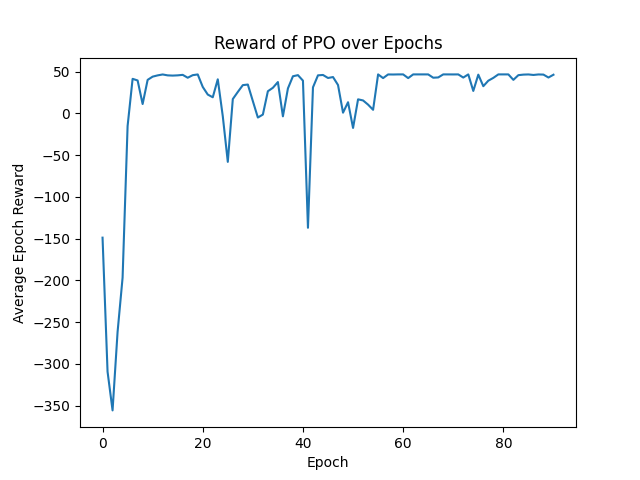
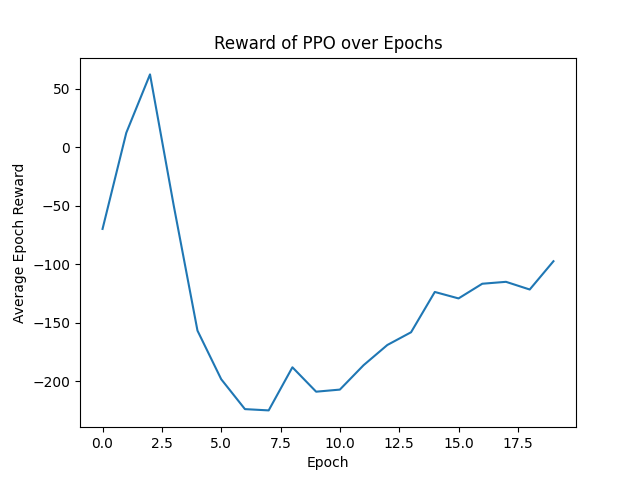
Taylor's Version

diff --git a/src/ppo.py b/src/ppo.py
@@ -6,8 +6,9 @@ Inspired by tutorial given by Eric Yang Yu: https://medium.com/analytics-vidhya/
 
 import matplotlib.pyplot as plt
 
-from src.evalPPO import eval_policy
-from src.rewardmodelsimulator import RewardModelSimulator
+from evalPPO import eval_policy
+from rewardmodelsimulator import RewardModelSimulator
+from RLHFenvironment import RLHFEnv
 import time
 import numpy as np
 import torch
@@ -36,8 +37,9 @@ class ACNN(nn.Module):
         super(ACNN, self).__init__()
         self.device = torch.device("cuda" if torch.cuda.is_available() else "cpu")
 
-        self.layer1 = nn.Linear(in_dim, 128)
-        self.layer2 = nn.Linear(128, out_dim)
+        self.layer1 = nn.Linear(in_dim, 32)
+        self.layer2 = nn.Linear(32, 16)
+        self.layer3 = nn.Linear(16, out_dim)
 
     def forward(self, obs):
 
@@ -56,27 +58,29 @@ class ACNN(nn.Module):
         """if obs.ndim == 1:
             obs = torch.reshape(obs, (obs.shape[0], 1))"""
         logits = nn.functional.relu(self.layer1(obs))
-        output = self.layer2(logits)
+        logits = nn.functional.relu(self.layer2(logits))
+        output = self.layer3(logits)
 
         return output
 
 
 class PPO:
 
-    def __init__(self, env, alpha=0.1, gamma=0.99):
+    def __init__(self, env=RewardModelSimulator(), test_env=RLHFEnv(), alpha=1e-4, alpha_c=0.1, gamma=0.925):
         self.device = torch.device("cuda" if torch.cuda.is_available() else "cpu")
         self.env = env
+        self.test_env = test_env
         self.obs_dim = 2  # grid world is 10x10
         self.action_dim = 4  # there are four discrete actions that can be taken (up, right, down, left)
         self.actor = ACNN(self.obs_dim, self.action_dim).to(self.device)
         self.critic = ACNN(self.obs_dim, 1).to(self.device)
 
-        self._init_hp(alpha, gamma)
+        self._init_hp(alpha, alpha_c, gamma)
         self.cov_var = torch.full(size=(self.action_dim,), fill_value=0.5).to(self.device)
         self.cov_mat = torch.diag(self.cov_var).to(self.device)
 
         self.a_optim = Adam(self.actor.parameters(), lr=self.alpha)
-        self.c_optim = Adam(self.critic.parameters(), lr=self.alpha)
+        self.c_optim = Adam(self.critic.parameters(), lr=self.alpha_c)
         self.softmax = nn.Softmax(dim=0)
 
         self.logger = {
@@ -85,15 +89,17 @@ class PPO:
             'i_so_far': 0,  # iterations so far
             'batch_lens': [],  # episodic lengths in batch
             'batch_rews': [],  # episodic returns in batch
+            'batch_test_rews': [],
             'actor_losses': [],  # losses of actor network in current iteration
             'overall_loss': [],
             'overall_reward': [],
+            'overall_test_rews': [],
             'batch_accuracy': []
         }
 
         ACTIONS = [(0, 1), (0, -1), (1, 0), (-1, 0)]
         data = []
-        with open('dataset/minigrid_RLHF_dataset.csv', 'r') as f:
+        with open('../dataset/minigrid_RLHF_dataset.csv', 'r') as f:
             next(f)  # Skip header
             state = None
             for line1, line2 in zip(f, f):  # Read two lines at a time
@@ -115,12 +121,14 @@ class PPO:
         # Convert data to PyTorch tensors
         self.test = np.array(data)
 
+
     def learn(self, n_episodes):
         t = 0  # t = current time step
         i_so_far = 0
         while t < n_episodes:
             batch_s, batch_a, batch_log_probs, batch_rtgs, batch_lens = self.rollout()
             t += np.sum(batch_lens)
+
             v, _ = self.evaluate(batch_s, batch_a)
 
             self.logger['batch_accuracy'].append(self.get_accuracy())
@@ -133,7 +141,6 @@ class PPO:
             self.logger['i_so_far'] = i_so_far
 
             adv_k = batch_rtgs - v.detach()  # getting the advantages for the time steps
-
             adv_k = (adv_k - adv_k.mean()) / (adv_k.std() + 1e-10)  # normalizing the advantages
 
             for i in range(self.n_updates_per_iteration):
@@ -142,19 +149,20 @@ class PPO:
                 ratios = torch.exp(curr_log_probs - batch_log_probs)
 
                 s1 = ratios * adv_k
-                s2 = torch.clamp(ratios, 1 - self.clip, 1 + self.clip)
+                s2 = torch.clamp(ratios, 1 - self.clip, 1 + self.clip) * adv_k
 
                 actor_loss = (-torch.min(s1, s2)).mean()
                 self.a_optim.zero_grad()
                 actor_loss.backward()
                 self.a_optim.step()
 
-                critic_loss = nn.MSELoss()(v, batch_log_probs)
+                critic_loss = nn.MSELoss()(v, batch_rtgs)
                 self.c_optim.zero_grad()
                 critic_loss.backward()
                 self.c_optim.step()
 
                 self.logger['actor_losses'].append(actor_loss.detach())
+                #self.logger['critic_losses'].append(critic_loss.detach())
 
             self._log_summary()
 
@@ -163,13 +171,14 @@ class PPO:
                 torch.save(self.actor.state_dict(), './ppo_actor.pth')
                 torch.save(self.critic.state_dict(), './ppo_critic.pth')
 
-    def _init_hp(self, alpha, gamma):
-        self.steps_per_batch = 5000
+    def _init_hp(self, alpha, alpha_c, gamma):
+        self.steps_per_batch = 1000
         self.max_episode = 200  # maximum timesteps per episode: prevents episode from runnning forever
         self.gamma = gamma
         self.n_updates_per_iteration = 10
         self.clip = 0.2
         self.alpha = alpha
+        self.alpha_c = alpha_c
         # Miscellaneous parameters
         self.render = True  # If we should render during rollout
         self.render_every_i = 10  # Only render every n iterations
@@ -195,7 +204,7 @@ class PPO:
                 batch_t += 1
                 batch_s.append(input)
 
-                a, log_prob = self.get_action(input)
+                a, log_prob, a_probs = self.get_action(input)
                 state, reward, done, _ = self.env.step(a)
 
                 episode_r.append(reward)
@@ -211,6 +220,7 @@ class PPO:
         batch_rtgs = self.rtgs_comp(batch_r)
 
         # Log the episodic returns and episodic lengths in this batch.
+        self.logger['batch_test_rews'] = self.get_test_rewards()
         self.logger['batch_rews'] = batch_r
         self.logger['batch_lens'] = batch_lens
 
@@ -224,12 +234,14 @@ class PPO:
         dist = MultivariateNormal(mean, self.cov_mat)  # get multivariate distribution to help with exploring
         a = dist.sample()
         log_prob = dist.log_prob(a)
-        a = np.random.choice(4, p=self.softmax(a).detach().numpy())
+        action_probs = self.softmax(a).detach().numpy()
+        a = np.random.choice(4, p=action_probs)
+        #a = np.argmax(a)
         """if a.ndim == 1:
             a = np.random.choice(4, p=self.softmax(a).detach().numpy())
         else:
             a = np.random.choice(4, p=self.softmax(a).detach().numpy())"""
-        return np.array(a), log_prob.detach()
+        return np.array(a), log_prob.detach(), action_probs
 
     def rtgs_comp(self, batch_r):
         batch_rtgs = []
@@ -275,6 +287,7 @@ class PPO:
         i_so_far = self.logger['i_so_far']
         avg_ep_lens = np.mean(self.logger['batch_lens'])
         avg_ep_rews = np.mean([np.sum(ep_rews) for ep_rews in self.logger['batch_rews']])
+        avg_test_rews = np.mean([np.sum(ep_rews) for ep_rews in self.logger['batch_test_rews']])
         avg_actor_loss = np.mean([losses.float().mean() for losses in self.logger['actor_losses']])
 
         self.logger['overall_reward'].append(avg_ep_rews)
@@ -290,6 +303,7 @@ class PPO:
         print(f"-------------------- Iteration #{i_so_far} --------------------", flush=True)
         print(f"Average Episodic Length: {avg_ep_lens}", flush=True)
         print(f"Average Episodic Return: {avg_ep_rews}", flush=True)
+        print(f"Average Test Episodic Return: {avg_test_rews}", flush=True)
         print(f"Average Loss: {avg_actor_loss}", flush=True)
         print(f"Average Accuracy: {self.logger['batch_accuracy'][-1]}")
         print(f"Timesteps So Far: {t_so_far}", flush=True)
@@ -303,29 +317,78 @@ class PPO:
         self.logger['actor_losses'] = []
 
     def get_accuracy(self):
+        self.actor.eval()
         correct = 0
         counter = 0
         np.random.shuffle(self.test)
-        for data in self.test[:100000]:
+
+        # store action values for all states
+        action_probs = [[0 for y in range(30) ] for x in range(30)]
+        for x in range(30):
+            for y in range(30):
+                a, b, c = self.get_action(np.array([x, y]))
+                action_probs[x][y] = [a, b]
+
+        for data in self.test[:3000]:
 
             opt1 = data[0]
             opt2 = data[1]
 
             s = opt1[:2]
 
-            a, log_prob = self.get_action(s)
+            a, log_prob = action_probs[int(s[0])][int(s[1])]
 
             if a == opt1[2]:
                 correct += 1
                 counter += 1
             elif a == opt2[2]:
                 counter += 1
+
+        self.actor.train()
         return correct / counter
 
+    def get_test_rewards(self):
+        # Simulate test rewards
+        self.actor.eval()
+        # store action values for all states
+        action_probs = [[0 for y in range(30)] for x in range(30)]
+        for x in range(30):
+            for y in range(30):
+                a, b, c = self.get_action(np.array([x, y]))
+                action_probs[x][y] = [a, b]
 
-def train(env, alpha, gamma, n_steps=200000):
+        test_rewards = []
+
+        for episode in range(50):
+            # initialize environment
+            state = self.test_env.reset()
+            cumulative_rewards = []
+
+            for i in range(200):
+                # select action based on policy
+                a, log_prob = action_probs[int(state[0])][int(state[1])]
+
+                state, reward, done, _ = self.test_env.step(a)
+
+                cumulative_rewards.append(reward)
+                if done: break
+
+            test_rewards.append(cumulative_rewards)
+
+            self.actor.train()
+
+        return test_rewards
+
+    def see_state_choices(self):
+        for x in range(30):
+            for y in range(30):
+                action, log_prob, action_probs = self.get_action(np.array([x,y]))
+                print(f"State ({x},{y}) : {action_probs}")
+
+
+def train(env=RewardModelSimulator(), test_env=RLHFEnv(), alpha=0.01, gamma=0.925, n_steps=100000):
     print("Beginning training procedure")
-    model = PPO(env, alpha, gamma)
+    model = PPO(env=RewardModelSimulator(), test_env=RLHFEnv(), alpha=1e-2, alpha_c=0.3, gamma=0.925)
     model.learn(n_steps)
 
     plt.plot(range(len(model.logger['overall_loss'])), model.logger['overall_loss'])
@@ -350,6 +413,8 @@ def train(env, alpha, gamma, n_steps=200000):
     plt.ylabel("Accuracy")
     plt.savefig(f"../model_plots/ppo_accuracy_over_epochs_lr_{model.alpha}_gamma_{model.gamma}.png")
     plt.close()
+
+    model.see_state_choices()
 
     return model.logger['overall_loss'], model.logger['overall_reward'], model.logger['batch_accuracy']
 
@@ -382,7 +447,7 @@ def train_set(env):
     losses = {}
     rewards = {}
     accuracy = {}
-    for alpha in [0.0001,0.001, 0.005, 0.01]:
+    for alpha in [0.001, 0.005, 0.01, 0.02]:
         for gamma in [0.925, 0.95, 0.99]:
             l, r, a = train(env, alpha, gamma, 200000)
 
@@ -420,5 +485,4 @@ def train_set(env):
 
 
 if __name__ == "__main__":
-    env = RewardModelSimulator()
-    train_set(env)
+    train()

diff --git a/src/rewardmodelsimulator.py b/src/rewardmodelsimulator.py
@@ -40,7 +40,7 @@ class RewardModelSimulator(MinigridEnv):
 
         self.model = RewardModel()
         # TODO: Could potentially use torch.device to use GPU if available
-        self.model.load_state_dict(torch.load('models/reward_model.pth'))
+        self.model.load_state_dict(torch.load('../models/reward_model.pth'))
         self.model.eval()
 
     def step(self, action):

diff --git a/src/RLHFenvironment.py b/src/RLHFenvironment.py
@@ -25,3 +25,7 @@ class RLHFEnv(RewardModelSimulator):
 
         # If the new state is not the goal state, return the new state and a reward of -1
         return self.state, -1, False, {}
+
+    def reset(self):
+        self.state = np.array([0, 0])
+        return self.state
